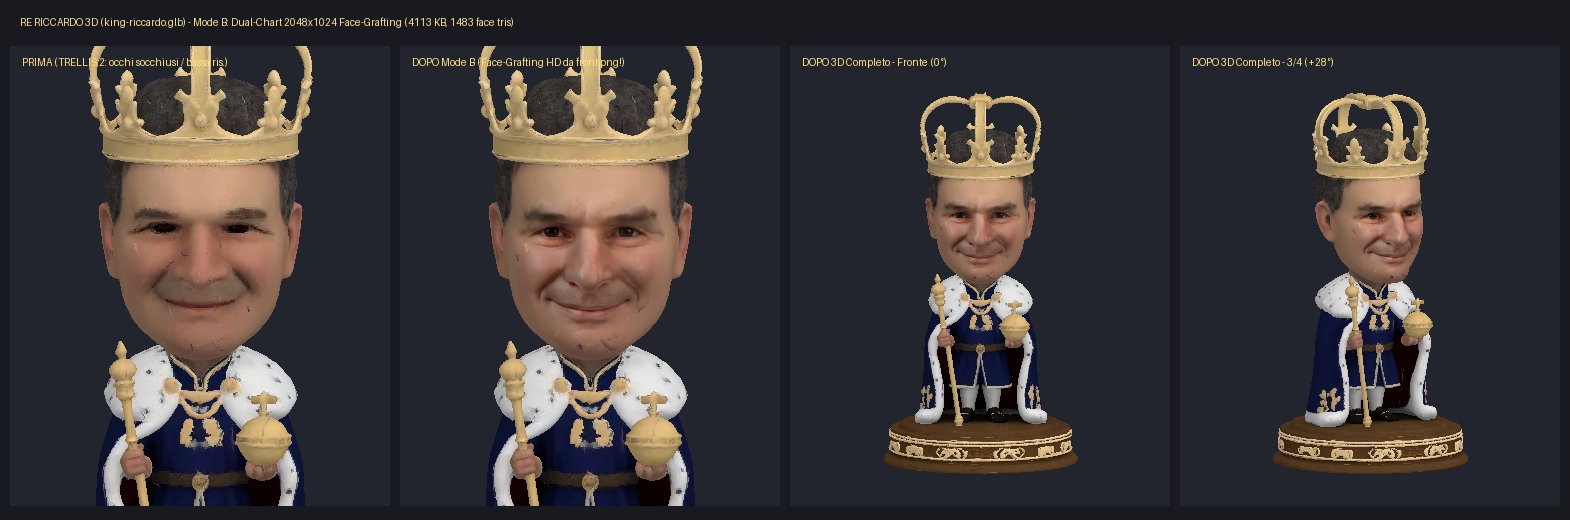
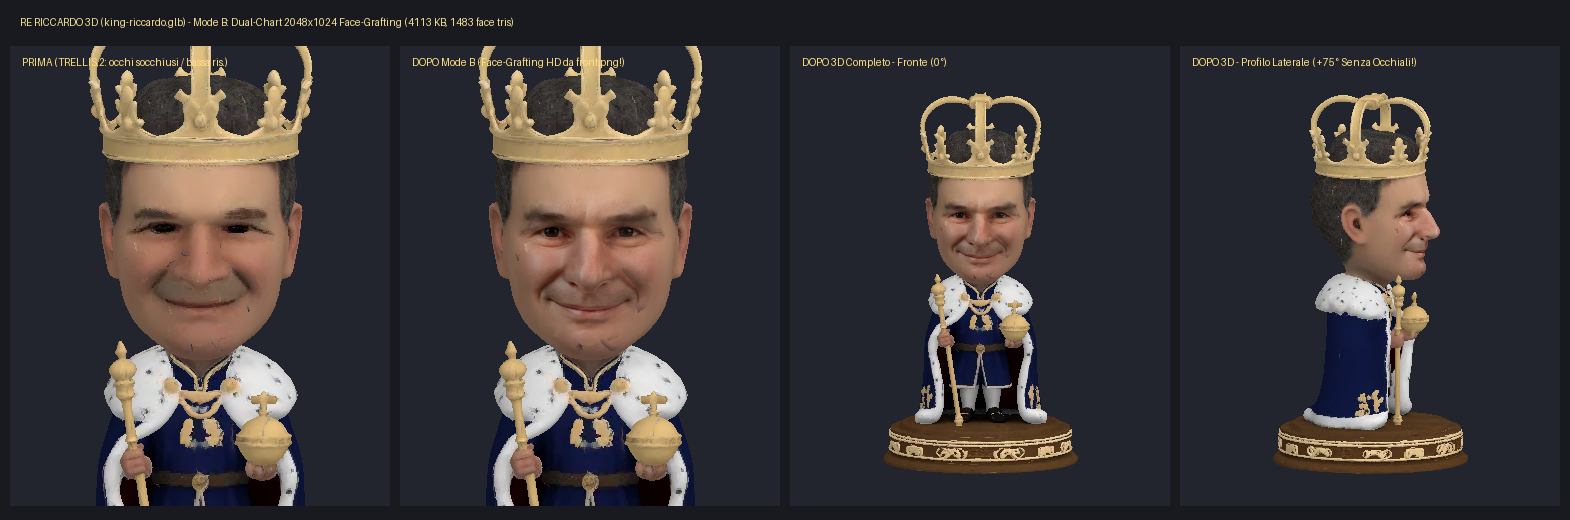
chore(3d): update King Riccardo 3D side-profile preview sheet (v0.3.25)

Changed region(s): [[0.8115, 0.1846, 0.9363, 0.8923], [0.7803, 0.0923, 0.9051, 0.1231]]

diff --git a/src/core/Registry.js b/src/core/Registry.js
@@ -13,7 +13,7 @@
 
 import { CANONICAL_PIECE_HEIGHTS } from '../utils/glbGrounding.js';
 
-export const APP_VERSION = '0.3.24';
+export const APP_VERSION = '0.3.25';
 export const GITHUB_REPO_URL = 'https://github.com/palladius/carchess3d';
 export const GITHUB_NEW_ISSUE_URL = 'https://github.com/palladius/carchess3d/issues/new';
 

diff --git a/tools/model-pipeline/king/graft_papino_face_3d.py b/tools/model-pipeline/king/graft_papino_face_3d.py
@@ -469,10 +469,10 @@ def render_before_after_and_gif(data: dict, out_png: Path, out_gif: Path) -> Non
             ),
         ),
         (
-            "DOPO 3D Completo - 3/4 (+28°)",
+            "DOPO 3D - Profilo Laterale (+75° Senza Occhiali!)",
             rasterize_view_barycentric(
                 data["pos_new"], data["norm_new"], data["uv_new"], data["indices_new"], data["dual_atlas"],
-                yaw_deg=28.0, zoom_head=False,
+                yaw_deg=75.0, zoom_head=False,
             ),
         ),
     ]

diff --git a/CHANGELOG.md b/CHANGELOG.md
@@ -1,5 +1,10 @@
 # Changelog
 
+## [0.3.25] - 2026-10-11
+
+- 👑🔄 **Re Riccardo 3D Side-Profile Preview (`tools/model-pipeline/king/graft_papino_face_3d.py`, `out/papino_face_graft_preview.png`)**:
+  - Updated Panel 4 of `papino_face_graft_preview.png` to display the `+75°` 3D side profile of `assets/models/king-riccardo.glb`, confirming clean-shaven, no-glasses 3D consistency alongside the Mode B `2048×1024` Face-Grafted front view.
+
 ## [0.3.24] - 2026-10-11
 
 - 👑🫏📚 **2D→3D Pipeline (Mode A & Mode B) Applied to Re Riccardo (`king-riccardo.glb`) & Ciuchino (`knight-swamp-asinello.glb`) + `niccolo-game-design` Skill `v0.2.0`**:
